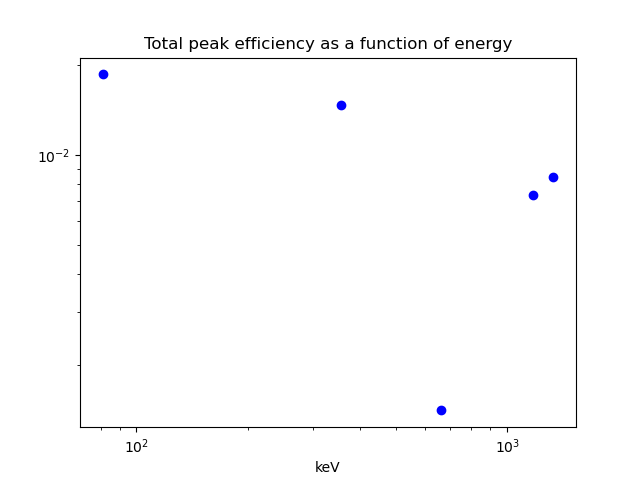
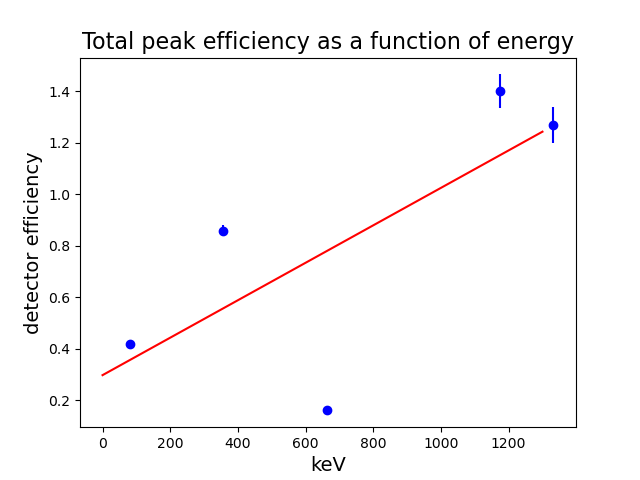
ferdig med 4a

diff --git a/session4a/post.py b/session4a/post.py
@@ -73,7 +73,7 @@ for i in range(len(distances)):
     tot_eff_dist_errs.append(tot_eff_dist_err)
     Omega = solid_angle(2.54,distances[i])
     Omega_err = solid_angle_err(2.54,distances[i],distance_errs[i])
-    tekst.append(f"{Sources[0]} & {tot_eff} & {distances[i]} & {Omega} $\pm$ {Omega_err} \\\\")
+    tekst.append(f"{Sources[0]} & {tot_eff} $\pm$ {tot_eff_dist_err} & {distances[i]} & {Omega} $\pm$ {Omega_err} \\\\")
 
 np.savetxt('tot_eff.txt', tekst, fmt='%s')
 
@@ -83,10 +83,14 @@ def my_function(x, a,b,c):
     """Solid angle function"""
     return a *x/np.sqrt(x**2+b)+c
 def my_function2(x,a):
+    "simple parabola"
     return a/(x**2)
+def my_function3(x,a,b):
+    "line"
+    return a*x+b
 xdata = np.arange(5,21,0.5)
-popt, pcov = curve_fit(my_function, np.array(distances),np.array(tot_eff_dist))
-plt.plot(xdata, my_function(xdata, *popt), color='red', label='Fitted Curve')
+popt, pcov = curve_fit(my_function2, np.array(distances),np.array(tot_eff_dist))
+plt.plot(xdata, my_function2(xdata, *popt), color='red', label='Fitted Curve')
 plt.errorbar(distances, tot_eff_dist, yerr=tot_eff_dist_errs,label= "137Cs 662keV peak", fmt='o',color='blue')
 plt.title("Total peak efficiency as a function of \n distance between detector and source",fontsize=16)
 plt.xlabel('cm',fontsize=14)
@@ -122,10 +126,13 @@ for i in range(len(Es)):
     int_eff = epsilon_int(N,A,ts_all[i],Is[i],distances[0],2.9)
     Omega = solid_angle(2.54,5)
     Omega_err = solid_angle_err(2.54,5,0.1)
-    int_eff_err = epsilon_int_err(int_eff,tot_eff,tot_eff_err)
+    int_eff_err = epsilon_int_err(int_eff,tot_eff,tot_eff_err,Omega,Omega_err)
     tekst.append(f"{Sources[source_indices[i]]} & {Es[i]} & {int_eff} \$ \pm \$ {int_eff_err}\\\\")
 np.savetxt('int_eff.txt', tekst, fmt='%s')
 
+xdata = np.arange(0,1400,100)
+popt, pcov = curve_fit(my_function3, np.array(Es),np.array(tot_eff_all))
+plt.plot(xdata, my_function3(xdata, *popt), color='red', label='Fitted Curve')
 plt.errorbar(Es, tot_eff_all, yerr=tot_eff_all_errs, fmt='o', color='blue')
 plt.title("Total peak efficiency as a function of energy",fontsize=16)
 plt.xlabel("keV",fontsize=14)
